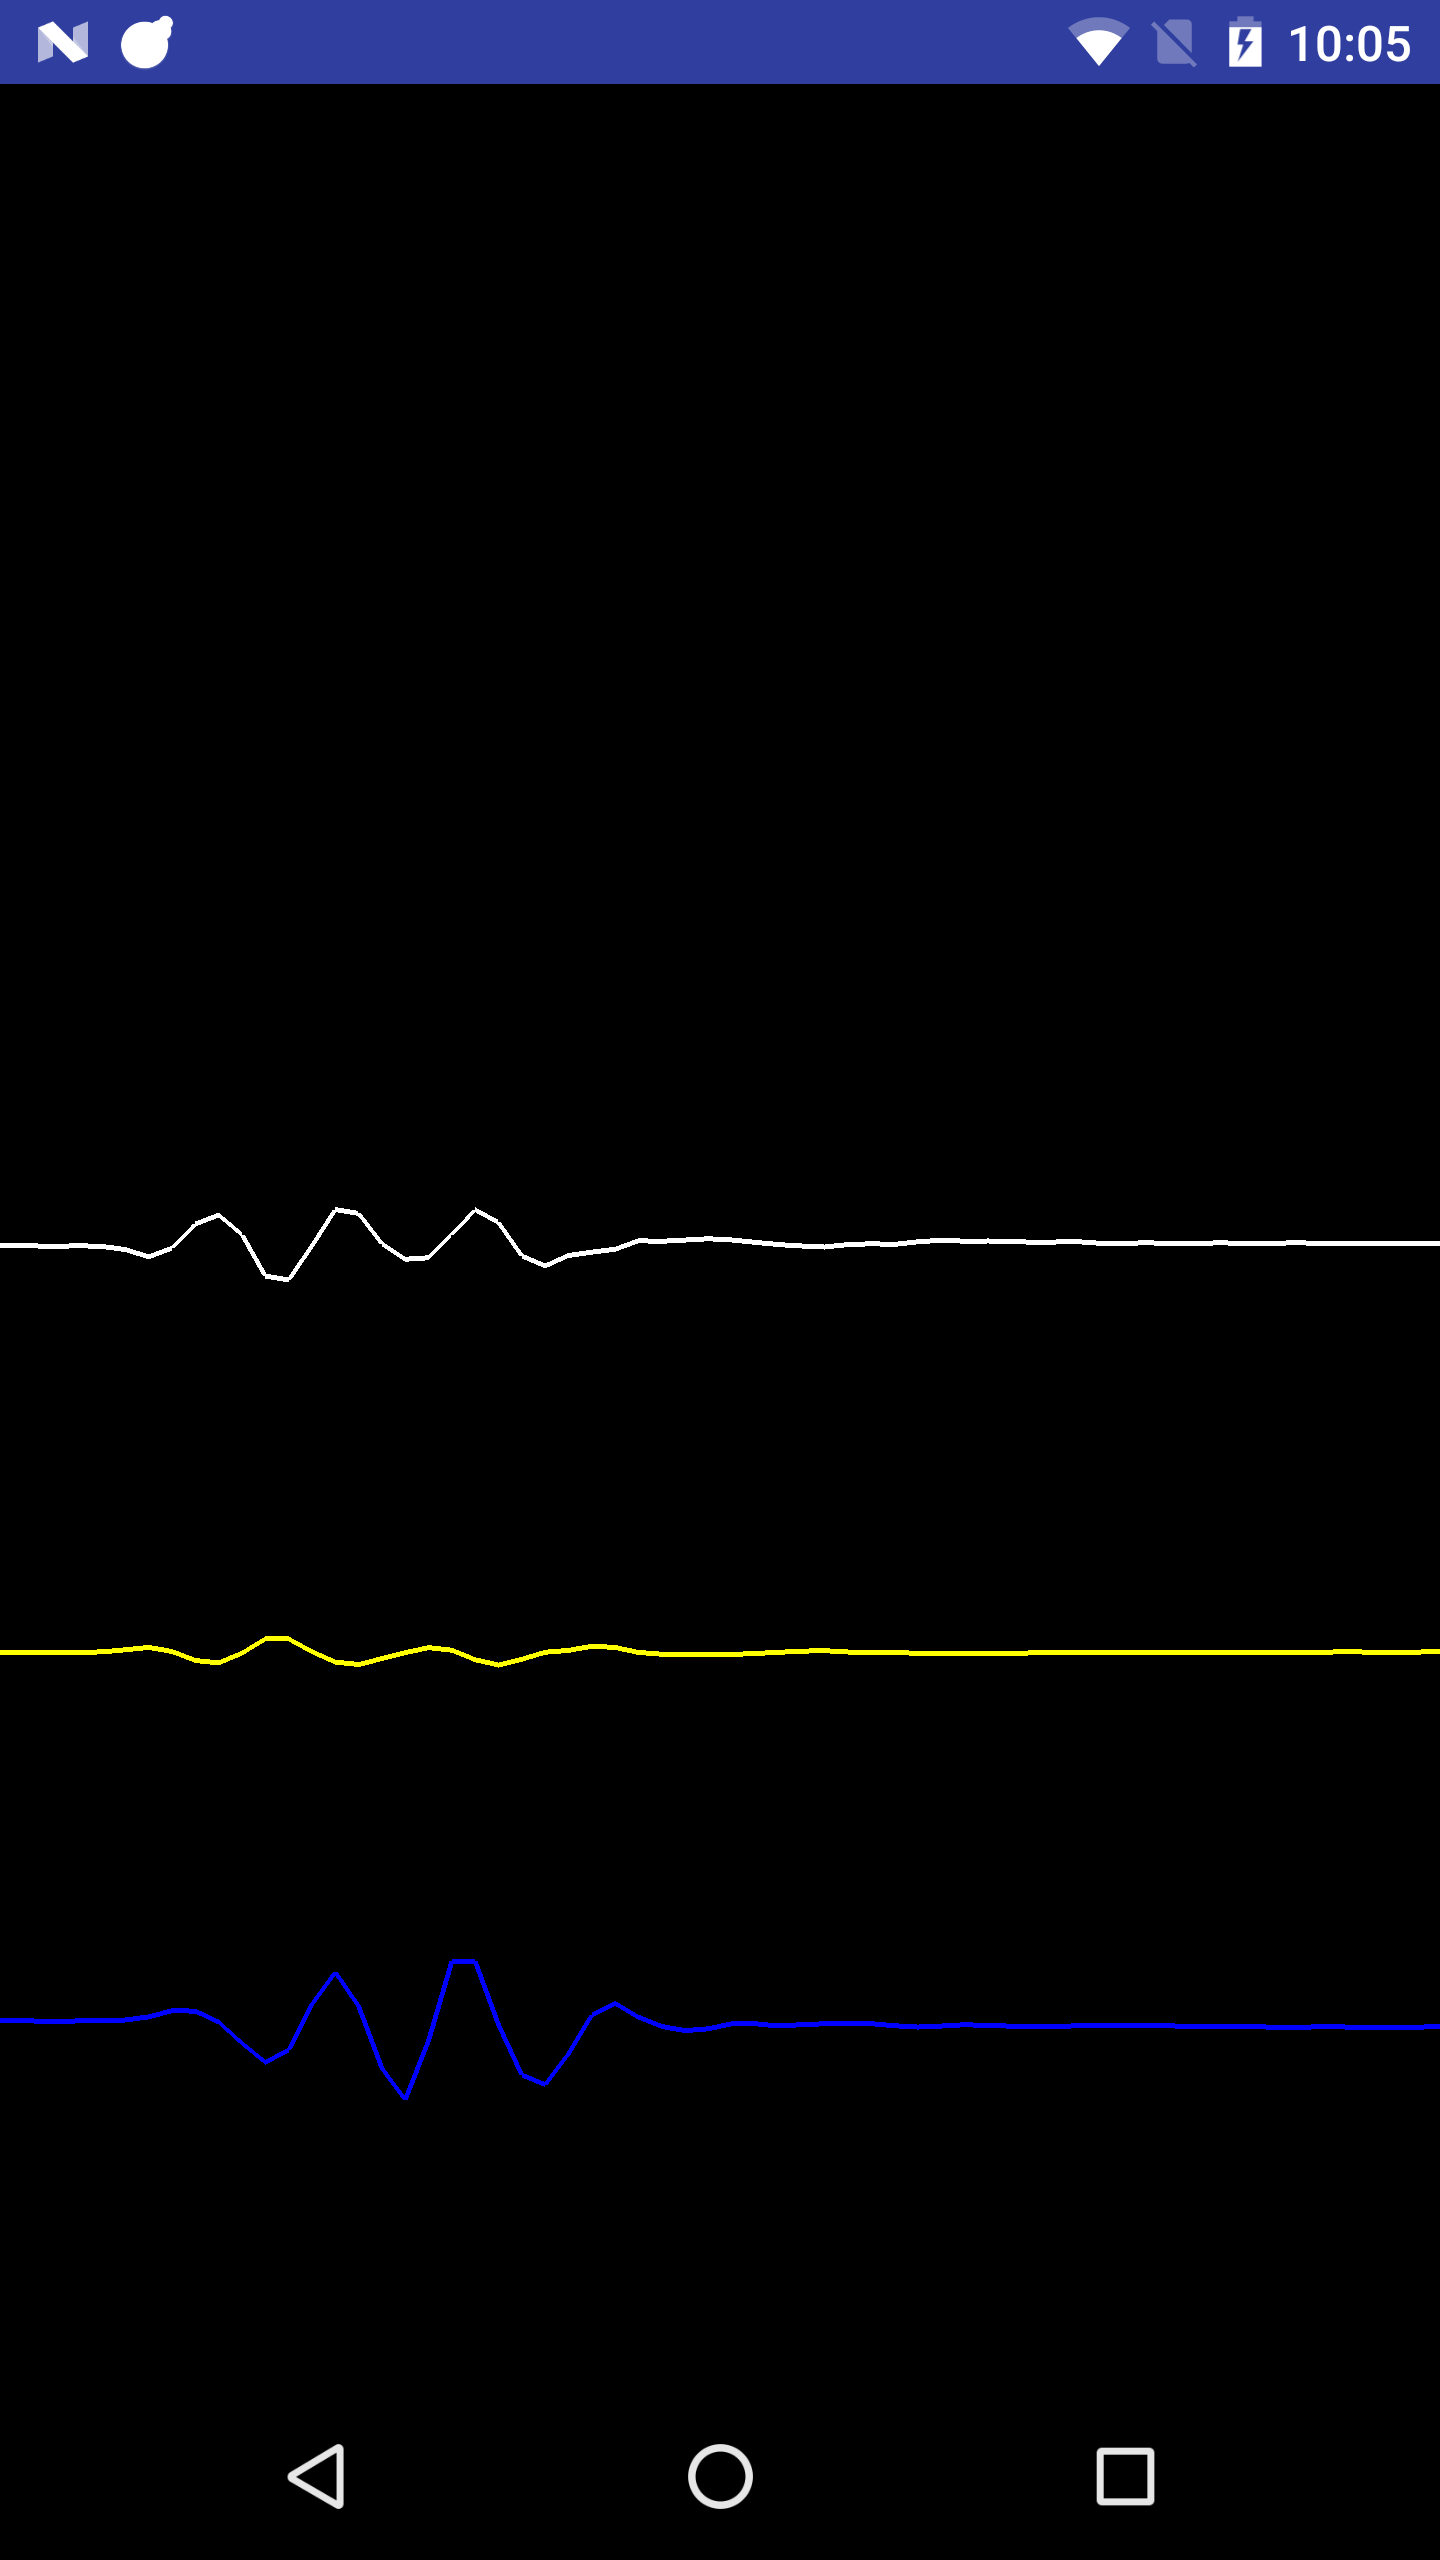
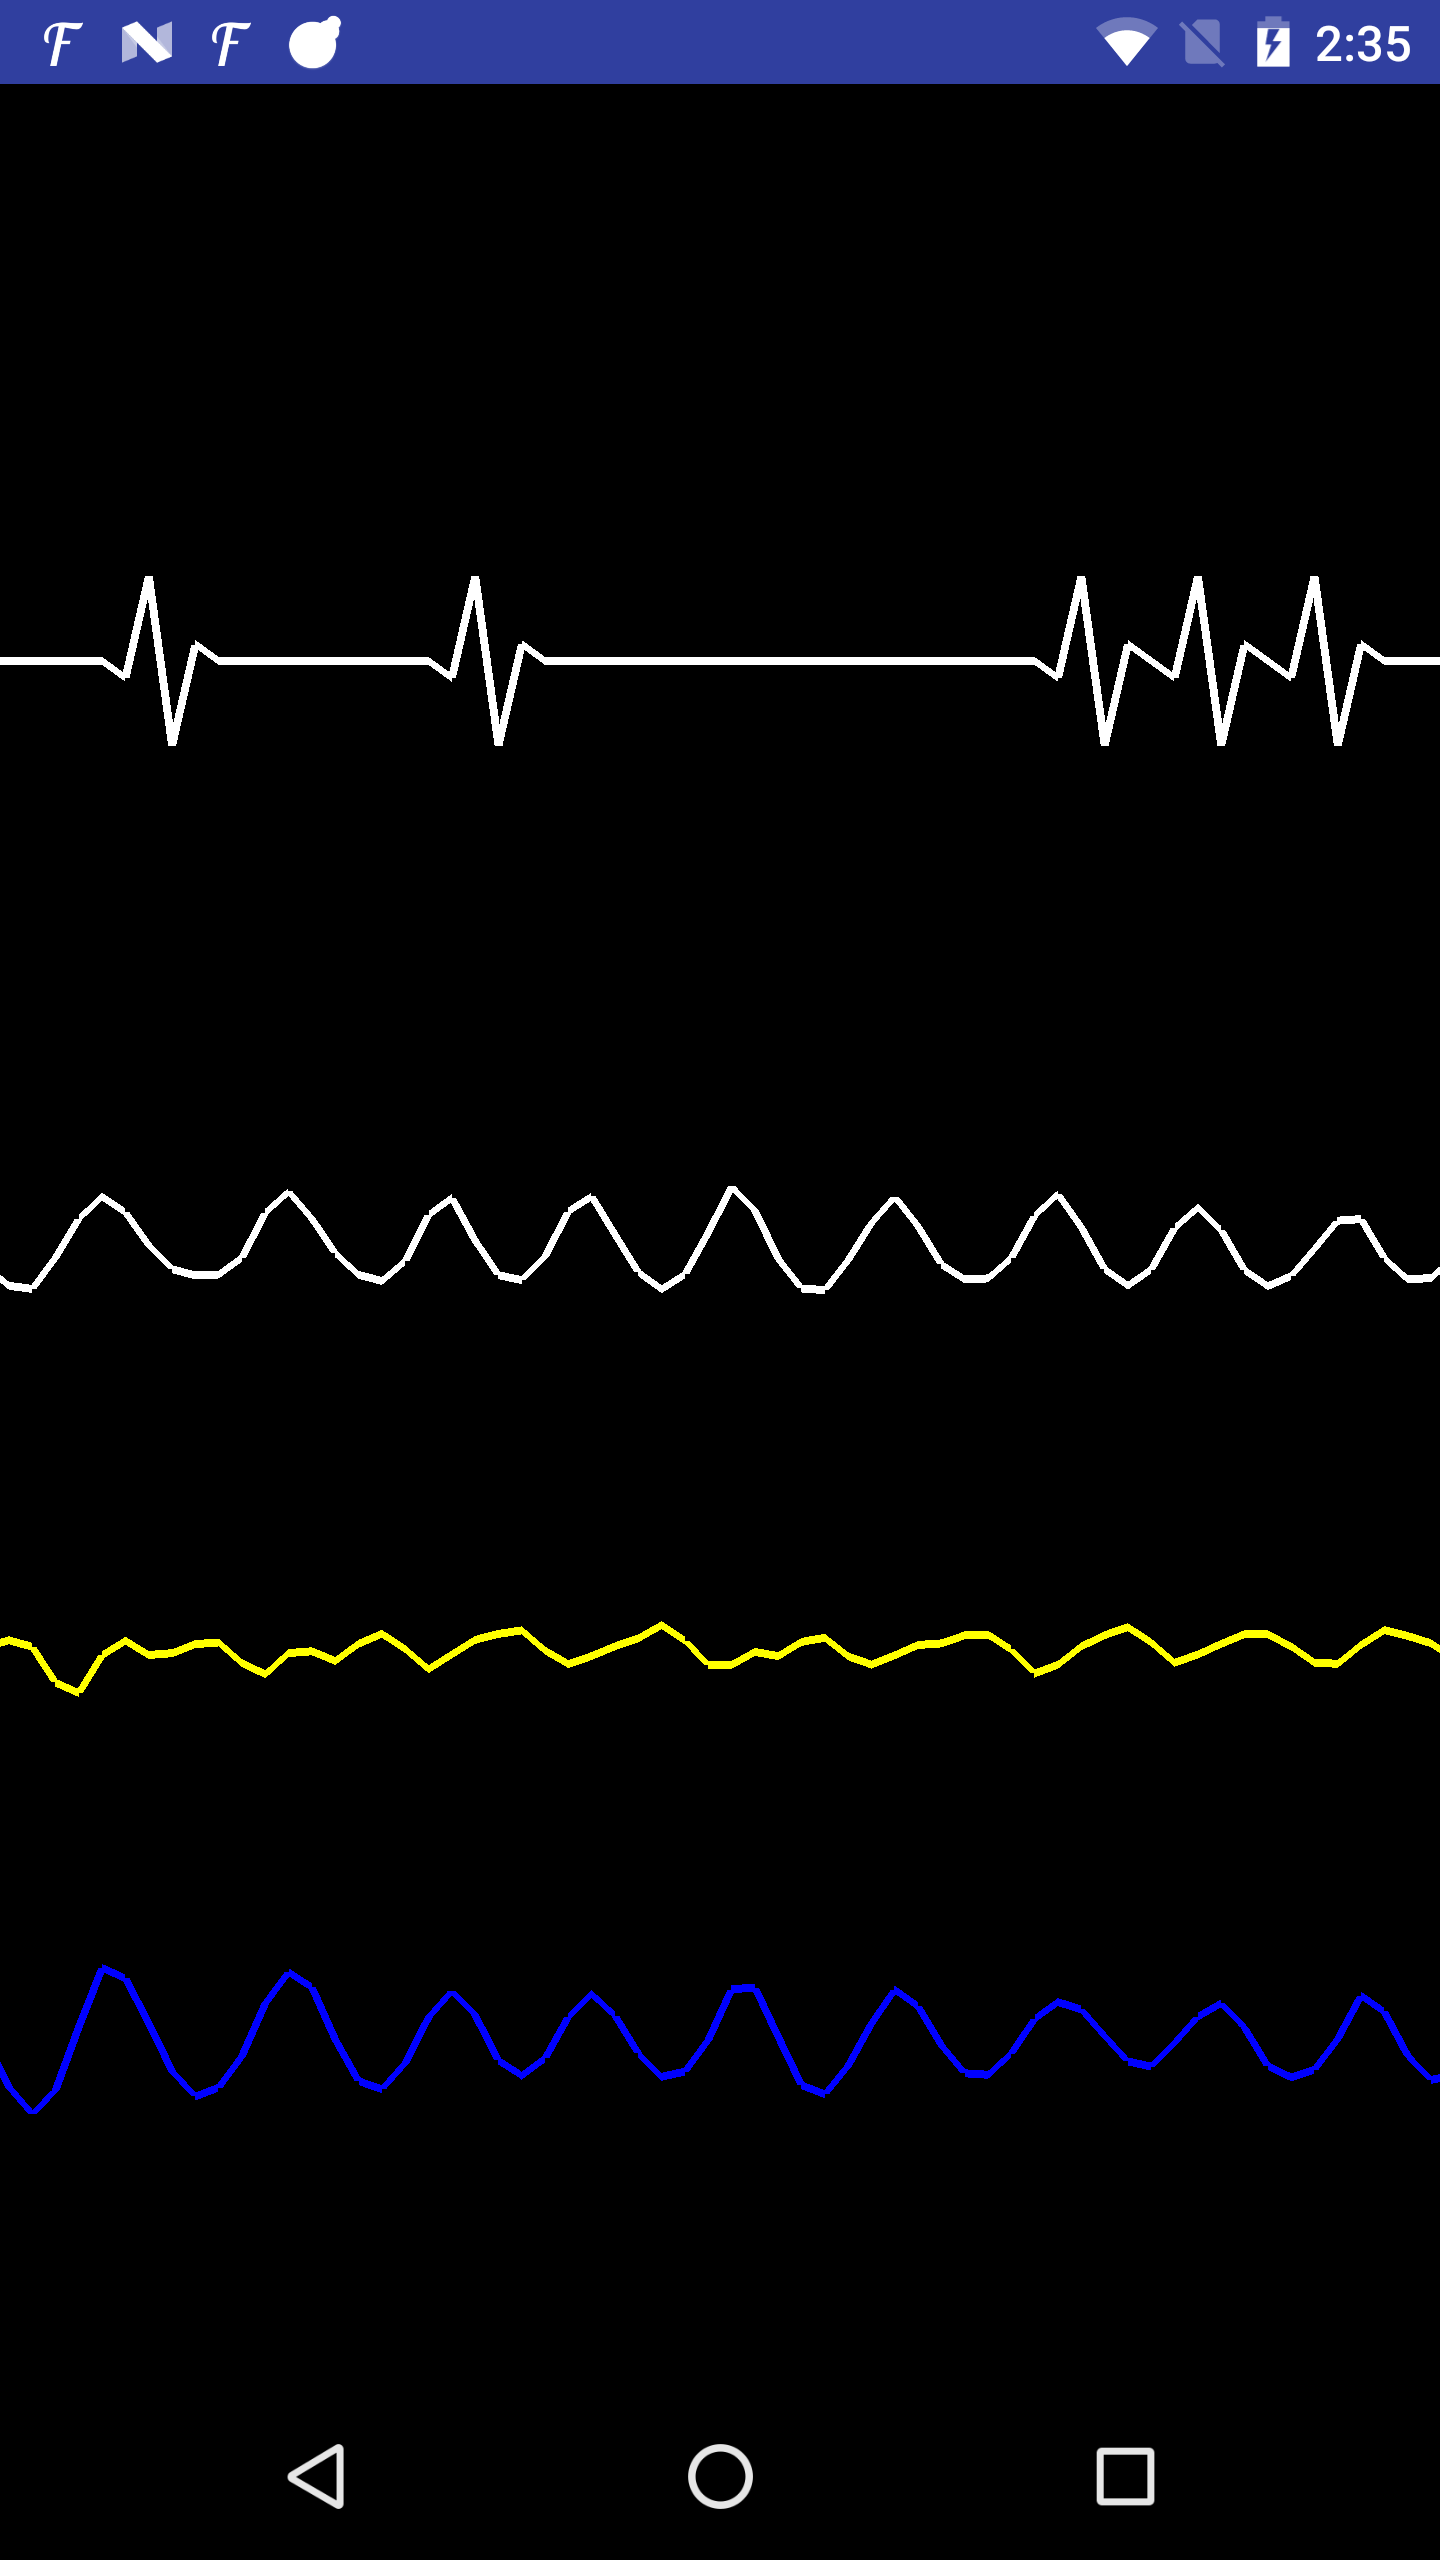
Draw heart beat

diff --git a/app/src/main/java/com/example/tdkhoa/sensorgraph/SensorDemoActivity.java b/app/src/main/java/com/example/tdkhoa/sensorgraph/SensorDemoActivity.java
@@ -15,7 +15,6 @@ import android.os.Build;
 import android.os.Bundle;
 import android.widget.Toast;
 
-
 import com.example.tdkhoa.sensorgraph.graph.GraphRenderer;
 import com.example.tdkhoa.sensorgraph.graph.SensorGraph;
 import com.example.tdkhoa.sensorgraph.model.GraphInfo;
@@ -33,6 +32,7 @@ public class SensorDemoActivity extends Activity implements SensorEventListener 
     private SensorGraph xSensorGraph;
     private SensorGraph ySensorGraph;
     private SensorGraph zSensorGraph;
+    private SensorGraph heartBeatGraph;
 
     @Override
     public void onCreate(Bundle savedInstanceState) {
@@ -59,6 +59,7 @@ public class SensorDemoActivity extends Activity implements SensorEventListener 
             graphRenderer = new GraphRenderer(this);
             glSurfaceView.setRenderer(graphRenderer);
             rendererSet = true;
+            graphRenderer.addView(heartBeatGraph);
             graphRenderer.addView(xSensorGraph);
             graphRenderer.addView(ySensorGraph);
             graphRenderer.addView(zSensorGraph);
@@ -71,6 +72,13 @@ public class SensorDemoActivity extends Activity implements SensorEventListener 
     }
 
     private void initSensorGraph(){
+        heartBeatGraph = new SensorGraph(this, new GraphInfo.Builder()
+                .maxHeight(this.getResources().getDimensionPixelOffset(R.dimen.max_height))
+                .xStartPosition(-1)
+                .xEndPosition(1)
+                .yPositionToDraw(0.5f)
+                .color(Color.WHITE)
+                .build());
         xSensorGraph = new SensorGraph(this, new GraphInfo.Builder().maxData(10)
                 .maxHeight(this.getResources().getDimensionPixelOffset(R.dimen.max_height))
                 .xStartPosition(-1)
@@ -131,6 +139,11 @@ public class SensorDemoActivity extends Activity implements SensorEventListener 
         xSensorGraph.addSensorData(x);
         ySensorGraph.addSensorData(y);
         zSensorGraph.addSensorData(z);
+
+        Random rand = new Random();
+        int randomNumber = rand.nextInt(50);
+        heartBeatGraph.drawHeartBeat(randomNumber < 2);
+
     }
 
 

diff --git a/app/src/main/java/com/example/tdkhoa/sensorgraph/graph/SensorGraph.java b/app/src/main/java/com/example/tdkhoa/sensorgraph/graph/SensorGraph.java
@@ -49,15 +49,36 @@ public class SensorGraph extends BaseGraph {
         }
         position = (data / graphInfo.getMaxData()) * heightRatio;
         Log.d(TAG, "addSensorData: data = " + position);
-        sensorData[sensorDataIndex] = position;
-        sensorData[SENSOR_HISTORY_LENGTH + sensorDataIndex] = position;
-        sensorDataIndex = (sensorDataIndex + 1) % SENSOR_HISTORY_LENGTH;
-
+        createLine(position);
         vertexSensor = allocateBuffer(sensorData);
         vertexSensor.put(sensorData);
         vertexSensor.position(sensorDataIndex);
         vertexData.position(0);
     }
+
+
+    public void drawHeartBeat(boolean isBeat) {
+        if(isBeat) {
+            createLine(heightRatio * -1/5);
+            createLine(heightRatio * 1);
+            createLine(heightRatio * -1);
+            createLine(heightRatio * 1/5);
+        } else{
+            createLine(0);
+        }
+        vertexSensor = allocateBuffer(sensorData);
+        vertexSensor.put(sensorData);
+        vertexSensor.position(sensorDataIndex);
+        vertexData.position(0);
+    }
+
+    private void createLine(float position){
+        Log.d(TAG, "drawHeartBeat: data = " + position);
+        sensorData[sensorDataIndex] = position;
+        sensorData[SENSOR_HISTORY_LENGTH + sensorDataIndex] = position;
+        sensorDataIndex = (sensorDataIndex + 1) % SENSOR_HISTORY_LENGTH;
+    }
+
 
     @Override public void draw(ShaderProgram shaderProgram) {
         GraphShaderProgram graphShaderProgram = (GraphShaderProgram) shaderProgram;
